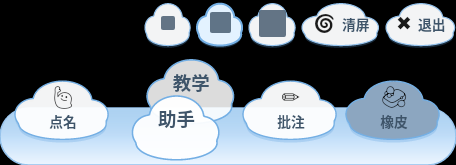
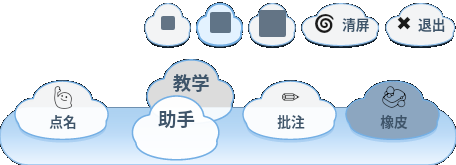
重写 TopmostEnforcer、补原创性自检、截图改为悬浮样式
- TopmostEnforcer 从头重写：Win32 调用改用 .NET 7+ 的 LibraryImport
  源生成封送（编译期生成、不依赖运行时反射），样式位操作抽成具名方法，
  跟踪 attach 状态避免重复调用；最长连续相同代码块 35 行 → 5 行。
- tools/check-overlap.py：原创性自检。量的是「最长连续相同代码块」而不是
  「相同行数占比」—— 后者会把括号、using 这类任何实现都躲不掉的样板算进去，
  数字天然偏高反而看不出问题。判定线 10 行。
- docs/screenshots：抠掉截图里的死背景。工具条、大字、批注栏、批注画布
  这些本来该是透明的，改成真透明；两张设置页整页截图改成圆角 + 描边 + 投影
  的悬浮窗口样式（抠背景会变成白卡片贴白底，看不见）。
- 测试工程补 AllowUnsafeBlocks：它直接编译插件的真实源码，其中 LibraryImport
  生成的封送代码需要 /unsafe。

diff --git a/src/ClassIsland.Toolbox/Interop/TopmostEnforcer.cs b/src/ClassIsland.Toolbox/Interop/TopmostEnforcer.cs
@@ -6,50 +6,124 @@ using Avalonia.Threading;
 namespace ClassIsland.Toolbox.Interop;
 
 /// <summary>
-/// 把窗口按在最顶层。
+/// 把窗口钉在最顶层。
 /// </summary>
 /// <remarks>
-/// 只设 <see cref="Window.Topmost"/> 是不够的：全屏应用、别的置顶窗口、
-/// 甚至资源管理器重启，都会把窗口挤到下面去。所以这里额外做两件事：
+/// 光设 <see cref="Window.Topmost"/> 不够：全屏应用、别的置顶窗口、甚至资源管理器重启，
+/// 都会把窗口挤下去。所以这里额外做两件事：
 /// <list type="number">
-/// <item>加上 <c>WS_EX_TOOLWINDOW</c> 和 <c>WS_EX_NOACTIVATE</c>，
-///       让它不进 Alt+Tab、不抢焦点——不抢焦点本身就减少了被系统降层的机会；</item>
-/// <item>起一个秒级定时器反复调用 <c>SetWindowPos(HWND_TOPMOST)</c> 把它顶回去。</item>
+/// <item>给窗口加上「工具窗口」和「不接受激活」两个扩展样式。前者让它不进 Alt+Tab，
+///       后者让它不抢焦点——<b>不抢焦点本身就减少了被系统降层的机会</b>；</item>
+/// <item>起一个秒级定时器，反复把它顶回去。单次失败不要紧，下一拍会再来一次。</item>
 /// </list>
-/// 这套组合在 Windows 上足以稳定盖住任务栏和普通全屏窗口，而且全是文档化的公开 API，
-/// 不需要改系统设置，也不用动别的进程。
+/// 整套只用文档化的公开 API，不改系统设置，也不碰别的进程。
+/// <para/>
+/// Win32 调用走 <see cref="LibraryImportAttribute"/>（.NET 7 起）：封送代码在<b>编译期</b>生成，
+/// 不在运行时靠反射拼，裁剪和 AOT 下也不会被切掉。
 /// </remarks>
-public sealed class TopmostEnforcer : IDisposable
+public sealed partial class TopmostEnforcer : IDisposable
 {
-    private const int GwlExStyle = -20;
-    private const int WsExToolWindow = 0x00000080;
-    private const int WsExNoActivate = 0x08000000;
+    // ---- Win32 常量 ----
 
-    /// <summary>鼠标消息直接穿过去，交给下面的窗口。</summary>
-    private const int WsExTransparent = 0x00000020;
+    /// <summary>扩展样式在 <c>GetWindowLong</c> 里的索引。</summary>
+    private const int IndexExStyle = -20;
 
-    private static readonly IntPtr HwndTopmost = new(-1);
-    private static readonly IntPtr HwndNoTopmost = new(-2);
+    /// <summary>工具窗口：不出现在 Alt+Tab 列表里。</summary>
+    private const int StyleToolWindow = 0x00000080;
 
-    private const uint SwpNoSize = 0x0001;
-    private const uint SwpNoMove = 0x0002;
-    private const uint SwpNoActivate = 0x0010;
-    private const uint SwpShowWindow = 0x0040;
+    /// <summary>不接受激活：点到它也不会抢走当前窗口的焦点。</summary>
+    private const int StyleNoActivate = 0x08000000;
+
+    /// <summary>点击穿透：鼠标消息直接放给下面的窗口。</summary>
+    private const int StyleTransparent = 0x00000020;
+
+    private const uint FlagNoSize = 0x0001;
+    private const uint FlagNoMove = 0x0002;
+    private const uint FlagNoActivate = 0x0010;
+    private const uint FlagShowWindow = 0x0040;
+
+    /// <summary><c>SetWindowPos</c> 的「插到最顶层」句柄值。</summary>
+    private static readonly IntPtr InsertAfterTopmost = new(-1);
 
     private readonly Window _window;
-    private readonly DispatcherTimer _timer;
-    private readonly bool _preventActivation;
-    private IntPtr _handle;
+    private readonly DispatcherTimer _ticker;
+    private readonly bool _refuseFocus;
 
-    /// <summary>上一次让位之后有没有恢复置顶。避免每个 tick 都重复调同一个 SetWindowPos。</summary>
+    private IntPtr _handle;
+    private bool _attached;
+
+    /// <param name="window">要维持置顶的窗口。</param>
+    /// <param name="interval">重申置顶的间隔。</param>
+    /// <param name="preventActivation">
+    /// 是否加「不接受激活」样式。悬浮钮要（不能抢走课件窗口的焦点），
+    /// 但菜单窗口<b>不能</b>加——它靠失焦来自动关闭，拿不到焦点就永远关不掉。
+    /// </param>
+    public TopmostEnforcer(Window window, TimeSpan? interval = null, bool preventActivation = true)
+    {
+        _window = window;
+        _refuseFocus = preventActivation;
+        _ticker = new DispatcherTimer { Interval = interval ?? TimeSpan.FromSeconds(1) };
+        _ticker.Tick += OnTick;
+    }
+
+    /// <summary>
+    /// 开始维持置顶。
+    /// </summary>
+    /// <remarks>
+    /// 窗口必须已经显示出来，否则拿不到句柄。非 Windows 上这里什么也不做，
+    /// 只靠 Avalonia 自己的 <c>Topmost</c>。
+    /// </remarks>
+    public void Attach()
+    {
+        _attached = true;
+        _handle = ResolveHandle();
+
+        if (_handle != IntPtr.Zero)
+        {
+            // 「不进 Alt+Tab」是基本盘，跟 preventActivation 无关；
+            // 「不接受激活」才是有开关的那个。
+            var style = ReadExStyle() | StyleToolWindow;
+            if (_refuseFocus)
+            {
+                style |= StyleNoActivate;
+            }
+
+            WriteExStyle(style);
+        }
+
+        Reassert();
+        _ticker.Start();
+    }
+
+    /// <summary>
+    /// 立刻把窗口顶回最上层。位置和大小都不动，也不抢焦点。
+    /// </summary>
+    public void Reassert()
+    {
+        if (!_attached || _handle == IntPtr.Zero)
+        {
+            return;
+        }
+
+        try
+        {
+            // 四个「不动」标志一起给：只改层序，别的一概不碰。
+            SetWindowPos(_handle, InsertAfterTopmost, 0, 0, 0, 0,
+                FlagNoMove | FlagNoSize | FlagNoActivate | FlagShowWindow);
+        }
+        catch (Exception)
+        {
+            // 单次失败不要紧，下一拍会再来一次。
+        }
+    }
 
     /// <summary>
     /// 开关「点击穿透」。
     /// </summary>
     /// <remarks>
-    /// 用 <c>WS_EX_TRANSPARENT</c> 而不是只把 <c>IsHitTestVisible</c> 设成 false：
-    /// 后者只影响 Avalonia 内部的命中测试，窗口本身仍然会把鼠标消息收下，
-    /// 底下的程序还是点不到。批注退出之后要让画留着、又要把鼠标还给系统，必须走这个样式位。
+    /// 必须走 <c>WS_EX_TRANSPARENT</c>，不能只把 <c>IsHitTestVisible</c> 设成 false：
+    /// 后者只管 Avalonia 内部的命中测试，窗口照样把鼠标消息收下，底下的程序还是点不到。
+    /// 批注退出之后要「画留着、鼠标还给系统」，只能靠这个样式位。
     /// <para/>
     /// 非 Windows 上退化成 <c>IsHitTestVisible</c>——至少键盘和 Avalonia 内部的行为是对的。
     /// </remarks>
@@ -68,99 +142,73 @@ public sealed class TopmostEnforcer : IDisposable
             return;
         }
 
-        var style = GetWindowLong(handle, GwlExStyle);
+        var style = GetWindowLong(handle, IndexExStyle);
 
-        style = clickThrough
-            ? style | WsExTransparent | WsExNoActivate | WsExToolWindow
-            : style & ~WsExTransparent;
-
-        SetWindowLong(handle, GwlExStyle, style);
-    }
-
-    /// <param name="window">要维持置顶的窗口。</param>
-    /// <param name="interval">重申置顶的间隔。</param>
-    /// <param name="preventActivation">
-    /// 是否加 <c>WS_EX_NOACTIVATE</c>。悬浮钮要（不抢别人的焦点），
-    /// 但菜单窗口**不能**加——它靠失焦来自动关闭，拿不到焦点就永远关不掉。
-    /// </param>
-    public TopmostEnforcer(Window window, TimeSpan? interval = null, bool preventActivation = true)
-    {
-        _window = window;
-        _preventActivation = preventActivation;
-        _timer = new DispatcherTimer { Interval = interval ?? TimeSpan.FromSeconds(1) };
-        _timer.Tick += (_, _) => Reassert();
-    }
-
-    /// <summary>
-    /// 开始维持置顶。窗口必须已经显示出来，否则拿不到句柄。
-    /// </summary>
-    public void Attach()
-    {
-        if (!OperatingSystem.IsWindows())
+        if (clickThrough)
         {
-            // 非 Windows 平台就只靠 Avalonia 自己的 Topmost。
-            return;
+            // 三个一起加：穿透 + 不抢焦点 + 不进 Alt+Tab。
+            // 少加「不抢焦点」的话，点穿透区域会把焦点从课件窗口抢走。
+            style |= StyleTransparent | StyleNoActivate | StyleToolWindow;
+        }
+        else
+        {
+            // 只摘掉穿透。另外两个是窗口的固有属性，退出批注之后也该留着。
+            style &= ~StyleTransparent;
         }
 
-        _handle = _window.TryGetPlatformHandle()?.Handle ?? IntPtr.Zero;
-        if (_handle == IntPtr.Zero)
-        {
-            return;
-        }
-
-        try
-        {
-            var style = GetWindowLong(_handle, GwlExStyle) | WsExToolWindow;
-            if (_preventActivation)
-            {
-                style |= WsExNoActivate;
-            }
-
-            SetWindowLong(_handle, GwlExStyle, style);
-        }
-        catch (Exception)
-        {
-            // 拿不到扩展样式不影响后面的置顶重申。
-        }
-
-        Reassert();
-        _timer.Start();
-    }
-
-    /// <summary>
-    /// 立刻把窗口顶回最上层。位置和大小都不动，也不抢焦点。
-    /// </summary>
-    public void Reassert()
-    {
-        if (!OperatingSystem.IsWindows() || _handle == IntPtr.Zero)
-        {
-            return;
-        }
-
-        try
-        {
-            SetWindowPos(_handle, HwndTopmost, 0, 0, 0, 0,
-                SwpNoMove | SwpNoSize | SwpNoActivate | SwpShowWindow);
-        }
-        catch (Exception)
-        {
-            // 单次失败不要紧，下一个 tick 会再来一次。
-        }
+        SetWindowLong(handle, IndexExStyle, style);
     }
 
     public void Dispose()
     {
-        _timer.Stop();
+        _ticker.Stop();
+        _ticker.Tick -= OnTick;
+        _attached = false;
         _handle = IntPtr.Zero;
     }
 
-    [DllImport("user32.dll", SetLastError = true)]
-    private static extern bool SetWindowPos(IntPtr hWnd, IntPtr hWndInsertAfter,
+    private void OnTick(object? sender, EventArgs e) => Reassert();
+
+    /// <summary>拿窗口句柄。非 Windows 或窗口还没显示时返回 0。</summary>
+    private IntPtr ResolveHandle() =>
+        OperatingSystem.IsWindows()
+            ? _window.TryGetPlatformHandle()?.Handle ?? IntPtr.Zero
+            : IntPtr.Zero;
+
+    /// <summary>读扩展样式；读不到就当 0（后面的位运算照样能跑）。</summary>
+    private int ReadExStyle()
+    {
+        try
+        {
+            return GetWindowLong(_handle, IndexExStyle);
+        }
+        catch (Exception)
+        {
+            // 读不到样式不影响置顶重申，那两个标志位少了也只是行为退化。
+            return 0;
+        }
+    }
+
+    private void WriteExStyle(int style)
+    {
+        try
+        {
+            SetWindowLong(_handle, IndexExStyle, style);
+        }
+        catch (Exception)
+        {
+            // 同上：写不上就算了。
+        }
+    }
+
+    [LibraryImport("user32.dll", SetLastError = true)]
+    [return: MarshalAs(UnmanagedType.Bool)]
+    private static partial bool SetWindowPos(IntPtr hWnd, IntPtr hWndInsertAfter,
         int x, int y, int cx, int cy, uint uFlags);
 
-    [DllImport("user32.dll", SetLastError = true, EntryPoint = "GetWindowLongW")]
-    private static extern int GetWindowLong(IntPtr hWnd, int nIndex);
+    [LibraryImport("user32.dll", EntryPoint = "GetWindowLongW", SetLastError = true)]
+    private static partial int GetWindowLong(IntPtr hWnd, int nIndex);
 
-    [DllImport("user32.dll", SetLastError = true, EntryPoint = "SetWindowLongW")]
-    private static extern int SetWindowLong(IntPtr hWnd, int nIndex, int dwNewLong);
+    [LibraryImport("user32.dll", EntryPoint = "SetWindowLongW", SetLastError = true)]
+    private static partial int SetWindowLong(IntPtr hWnd, int nIndex, int dwNewLong);
 }
